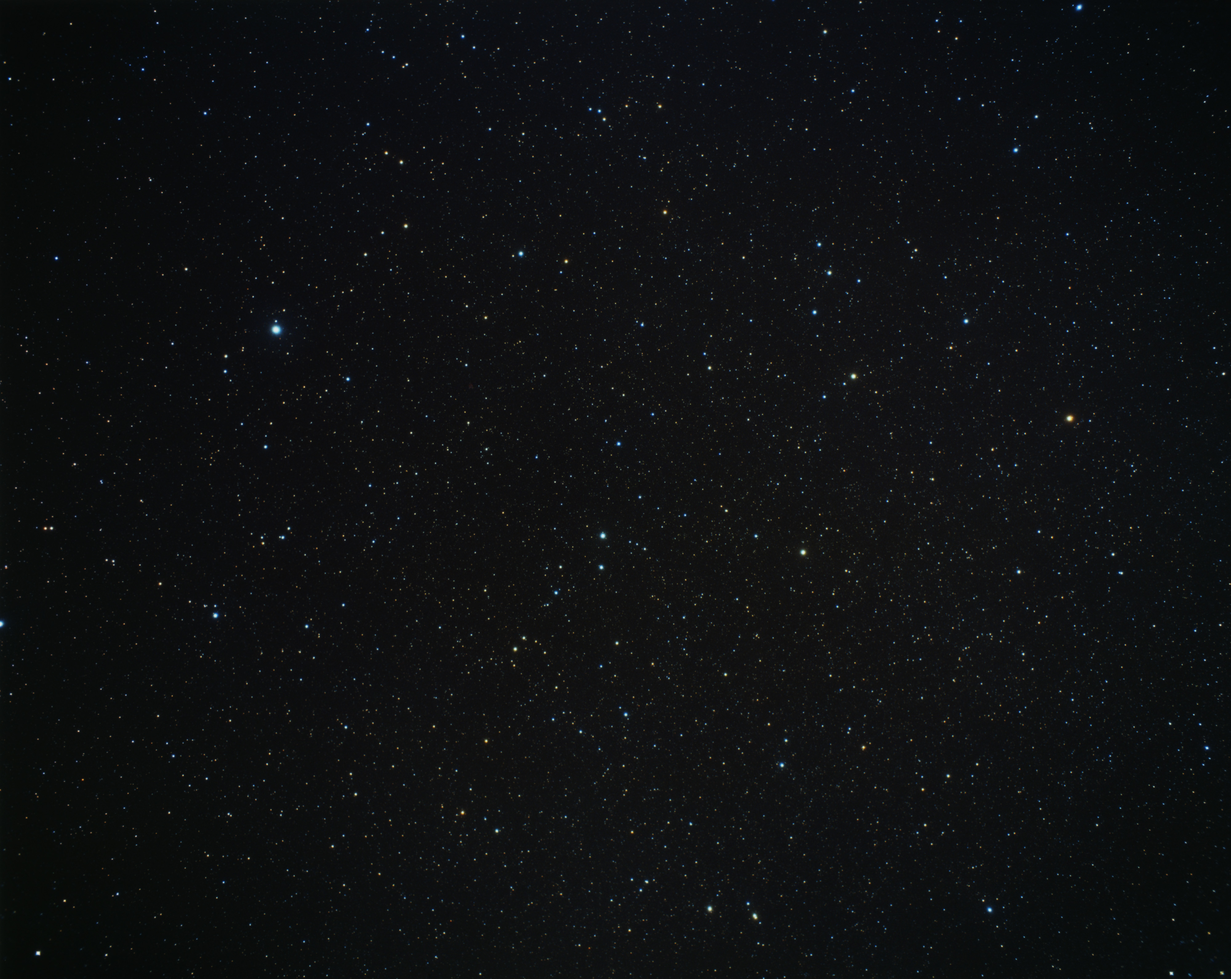
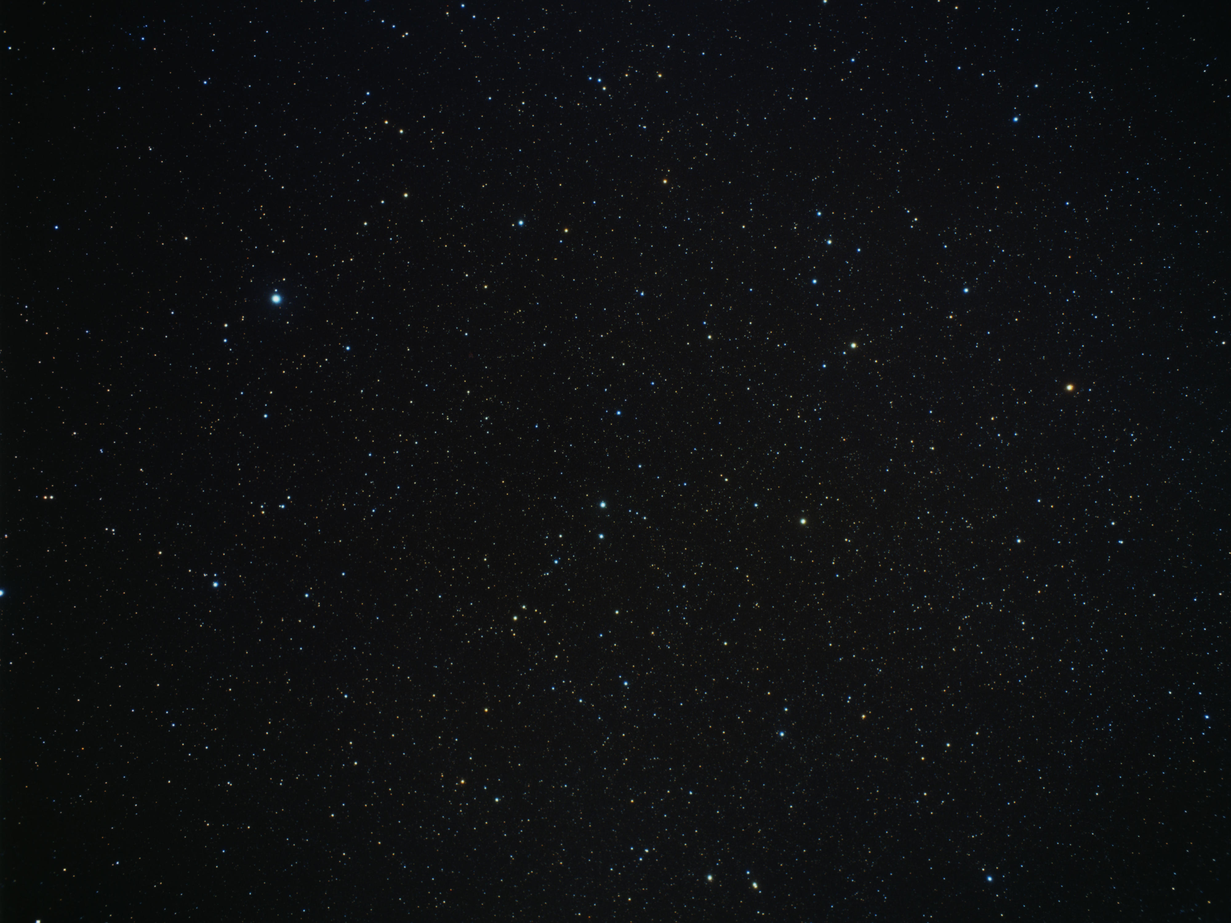
Corrected background shift on horizontal movement. Resized image to exactly match the game surface. Added brake / reverse on the ship.

diff --git a/js/game.js b/js/game.js
@@ -1,16 +1,18 @@
 // Generated by CoffeeScript 1.6.3
 (function() {
-  var Asteroid, Button, Drawable, Engine, Hud, Image, Screen, Text, Vessel, canvas, context, createAsteroidStore, createSurface, debug, distanceBetween, enableLog, game, keymap, surface, translate,
+  var Asteroid, Button, Drawable, Engine, Hud, Image, Screen, Text, Vessel, canvas, context, createAsteroidStore, createSurface, debug, distanceBetween, enableLog, game, inDocumentConsole, keymap, log, oldLog, showconsole, surface, translate,
     __slice = [].slice,
     __hasProp = {}.hasOwnProperty,
     __extends = function(child, parent) { for (var key in parent) { if (__hasProp.call(parent, key)) child[key] = parent[key]; } function ctor() { this.constructor = child; } ctor.prototype = parent.prototype; child.prototype = new ctor(); child.__super__ = parent.prototype; return child; },
     __bind = function(fn, me){ return function(){ return fn.apply(me, arguments); }; };
 
-  debug = false;
+  debug = true;
 
-  enableLog = function(object) {
+  showconsole = false;
+
+  enableLog = function(object, name) {
     var id, overload, prop;
-    overload = function(name, instance) {
+    overload = function(instance, name) {
       var old,
         _this = this;
       old = instance[name];
@@ -21,10 +23,14 @@
         return old.apply(instance, args);
       };
     };
-    for (id in object) {
-      prop = object[id];
-      if (typeof prop === 'function') {
-        overload(id, object);
+    if (name != null) {
+      overload(object, name);
+    } else {
+      for (id in object) {
+        prop = object[id];
+        if (typeof prop === 'function') {
+          overload(object, id);
+        }
       }
     }
     return true;
@@ -32,6 +38,10 @@
 
   distanceBetween = function(pointA, pointB) {
     return Math.sqrt(Math.pow(pointA.x - pointB.x, 2) + Math.pow(pointA.y - pointB.y, 2));
+  };
+
+  log = function(text) {
+    return console.log(text);
   };
 
   canvas = document.createElement('canvas');
@@ -44,11 +54,31 @@
 
   context = canvas.getContext('2d');
 
-  if (debug) {
-    enableLog(context);
+  surface = null;
+
+  if (showconsole) {
+    canvas.width = window.innerWidth - 200;
+    inDocumentConsole = document.createElement('div');
+    inDocumentConsole.setAttribute('class', 'console');
+    inDocumentConsole.append = function(text) {
+      var element;
+      element = document.createElement('p');
+      element.innerText = text;
+      return this.appendChild(element);
+    };
+    document.body.appendChild(inDocumentConsole);
+    oldLog = console.log;
+    console.log = function() {
+      var args;
+      args = 1 <= arguments.length ? __slice.call(arguments, 0) : [];
+      inDocumentConsole.append.apply(inDocumentConsole, args);
+      return oldLog.apply(console, args);
+    };
   }
 
-  surface = null;
+  log("Window is (" + window.innerWidth + ", " + window.innerHeight + ")");
+
+  log("Canvas created with (" + canvas.width + ", " + canvas.height + ")");
 
   createSurface = function() {
     return surface = {
@@ -450,7 +480,9 @@
     37: 'left',
     38: 'thrust',
     39: 'right',
-    27: 'escape'
+    40: 'reverse',
+    27: 'escape',
+    32: 'stop'
   };
 
   Engine = (function() {
@@ -460,7 +492,8 @@
       this.pause = __bind(this.pause, this);
       this.draw = __bind(this.draw, this);
       this.mainLoop = __bind(this.mainLoop, this);
-      var code, key, keyboard;
+      var code, key, keyboard,
+        _this = this;
       this.hud = new Hud();
       this.asteroids = createAsteroidStore();
       this.vessel = new Vessel();
@@ -471,26 +504,45 @@
       }
       this.keyboard = keyboard;
       this.collisions = [];
-      this.viewport = {
-        x: this.surface.width / 2 - canvas.width / 2,
-        y: this.surface.height / 2 - canvas.height / 2,
-        width: canvas.width,
-        height: canvas.height,
-        draw: function() {
-          var asteroid, _i, _len, _ref;
-          context.clearRect(0, 0, canvas.width, canvas.height);
-          this.x = game.engine.vessel.position.x - canvas.width / 2;
-          this.y = game.engine.vessel.position.y - canvas.height / 2;
-          context.drawImage(game.images['space.jpg'], this.x, this.y, this.width, this.height, 0, 0, this.width, this.height);
-          _ref = game.engine.asteroids;
-          for (_i = 0, _len = _ref.length; _i < _len; _i++) {
-            asteroid = _ref[_i];
-            asteroid.drawAt(this.x, this.y);
+      this.viewport = (function() {
+        var background, height, width, x, y;
+        x = _this.surface.width / 2 - canvas.width / 2;
+        y = _this.surface.height / 2 - canvas.height / 2;
+        width = canvas.width;
+        height = canvas.height;
+        log("Viewport is at (" + x + ", " + y + ") with (" + width + ", " + height + ")");
+        background = game.images['space.jpg'];
+        return {
+          x: x,
+          y: y,
+          width: width,
+          height: height,
+          draw: function() {
+            var asteroid, xOffset, _i, _len, _ref;
+            context.clearRect(0, 0, canvas.width, canvas.height);
+            this.x = game.engine.vessel.position.x - canvas.width / 2;
+            this.y = game.engine.vessel.position.y - canvas.height / 2;
+            if (background.width < this.width + this.x) {
+              xOffset = background.width - this.x;
+              context.drawImage(background, this.x, this.y, xOffset, this.height, 0, 0, xOffset, this.height);
+              context.drawImage(background, 0, this.y, this.width - xOffset, this.height, xOffset, 0, this.width - xOffset, this.height);
+            }
+            if (this.x < 0) {
+              xOffset = -this.x;
+              context.drawImage(background, background.width + this.x, this.y, -this.x, this.height, 0, 0, -this.x, this.height);
+              context.drawImage(background, 0, this.y, this.width - xOffset, this.height, xOffset, 0, this.width - xOffset, this.height);
+            }
+            context.drawImage(background, this.x, this.y, this.width, this.height, 0, 0, this.width, this.height);
+            _ref = game.engine.asteroids;
+            for (_i = 0, _len = _ref.length; _i < _len; _i++) {
+              asteroid = _ref[_i];
+              asteroid.drawAt(this.x, this.y);
+            }
+            game.engine.vessel.drawAt(this.x, this.y);
+            return game.engine.hud.draw();
           }
-          game.engine.vessel.drawAt(this.x, this.y);
-          return game.engine.hud.draw();
-        }
-      };
+        };
+      })();
     }
 
     Engine.prototype.running = null;
@@ -499,8 +551,11 @@
       start: Date.now(),
       frames: 0,
       add: function() {
-        var collisions, countersElement, createCounter, drawTime, fps, oldDraw, oldUpdate, updateTime,
+        var camera, collisions, countersElement, createCounter, drawTime, fps, oldDraw, oldUpdate, ship, timing, updateTime,
           _this = this;
+        timing = function() {
+          return (typeof performance !== "undefined" && performance !== null ? typeof performance.now === "function" ? performance.now() : void 0 : void 0) || window.Date.now();
+        };
         countersElement = document.createElement('div');
         countersElement.setAttribute('class', 'counters');
         createCounter = function(title) {
@@ -517,24 +572,28 @@
         updateTime = createCounter('Update');
         drawTime = createCounter('Draw');
         collisions = createCounter('Collisions');
+        camera = createCounter('Camera');
+        ship = createCounter('Ship');
         document.body.appendChild(countersElement);
-        fps.lastUpdate = performance.now();
+        fps.lastUpdate = timing();
         fps.lastFrameCount = 0;
         oldUpdate = game.engine.update;
         oldDraw = game.engine.draw;
         collisions.total = 0;
         game.engine.update = function() {
           var updateStart;
-          updateStart = performance.now();
+          updateStart = timing();
           oldUpdate();
           collisions.innerHTML = "" + game.engine.collisions.length + " (total: " + (collisions.total += game.engine.collisions.length) + ")";
-          return updateTime.innerHTML = Math.round(performance.now() - updateStart);
+          updateTime.innerHTML = Math.round(timing() - updateStart);
+          camera.innerHTML = "" + (Math.floor(game.engine.viewport.x)) + ", " + (Math.floor(game.engine.viewport.y));
+          return ship.innerHTML = "" + (Math.floor(game.engine.vessel.position.x)) + ", " + (Math.floor(game.engine.vessel.position.y));
         };
         return game.engine.draw = function() {
           var drawStart, endLoop;
-          drawStart = performance.now();
+          drawStart = timing();
           oldDraw();
-          endLoop = performance.now();
+          endLoop = timing();
           drawTime.innerHTML = Math.round(endLoop - drawStart);
           _this.frames++;
           if (endLoop - fps.lastUpdate > 250) {
@@ -576,7 +635,7 @@
     Engine.prototype.init = function() {
       var animFrame, recursive,
         _this = this;
-      if ((typeof performance !== "undefined" && performance !== null ? performance.now : void 0) != null) {
+      if (debug) {
         this.counters.add();
       }
       animFrame = window.requestAnimationFrame;
@@ -769,6 +828,22 @@
         vessel.vector.x += Math.cos(vessel.orientation) * vessel.acceleration;
         vessel.vector.y += Math.sin(vessel.orientation) * vessel.acceleration;
       }
+      if (this.keyboard.reverse) {
+        vessel.vector.x -= Math.cos(vessel.orientation) * vessel.acceleration * .2;
+        vessel.vector.y -= Math.sin(vessel.orientation) * vessel.acceleration * .2;
+      }
+      if (this.keyboard.stop) {
+        if (vessel.vector.x > 0) {
+          vessel.vector.x -= Math.min(vessel.acceleration * .2, vessel.vector.x * vessel.acceleration);
+        } else {
+          vessel.vector.x += Math.min(vessel.acceleration * .2, -vessel.vector.x * vessel.acceleration);
+        }
+        if (vessel.vector.y > 0) {
+          vessel.vector.y -= Math.min(vessel.acceleration * .2, vessel.vector.y * vessel.acceleration);
+        } else {
+          vessel.vector.y += Math.min(vessel.acceleration * .2, -vessel.vector.y * vessel.acceleration);
+        }
+      }
       if (this.keyboard['left']) {
         vessel.orientation -= vessel.rotationalSpeed;
       }
@@ -813,10 +888,10 @@
     images: {
       'space.jpg': null
     },
+    debug: debug,
     load: function() {
       var counter, loadImage, url, _results,
         _this = this;
-      this.engine = new Engine();
       counter = 0;
       loadImage = function(url) {
         var image;
@@ -826,7 +901,12 @@
           _this.images[url] = image;
           counter--;
           if (counter === 0) {
-            return _this.engine.init().pause();
+            _this.engine = new Engine();
+            _this.engine.init().pause();
+            window.vessel = game.engine.vessel;
+            window.asteroids = game.engine.asteroids;
+            vessel.position.x = 3000;
+            return vessel.position.y = 1000;
           }
         };
       };

diff --git a/tests/unit/gameSpec.js b/tests/unit/gameSpec.js
@@ -41,7 +41,7 @@
         return expect(engine.isPaused()).toBeTruthy();
       });
     });
-    return describe('performance counters', function() {
+    return xdescribe('performance counters', function() {
       return it('should work when there is no performance.now()', function() {
         var old;
         old = window.performance;

diff --git a/index.html b/index.html
@@ -3,7 +3,7 @@
 <head>
     <title></title>
   <link rel="stylesheet" type="text/css" href="css/game.css" />
-  <meta name="viewport" content="width=device-width, initial-scale=1, user-scalable=1">
+  <meta name="viewport" content="width=device-width, initial-scale=.5, user-scalable=no">
 </head>
 <body>
 <script src="js/game.js"></script>

diff --git a/css/game.css b/css/game.css
@@ -12,6 +12,10 @@ canvas{
     right: 0;
 }
 
+p {
+    margin: 0;
+}
+
 .counters{
     position: absolute;
     top: 0;
@@ -19,6 +23,9 @@ canvas{
     color: white;
 }
 
-    .counters p {
-        margin: 0;
-    }
+.console{
+    position: absolute;
+    right: 0;
+    top: 0;
+    width: 200px;
+}
